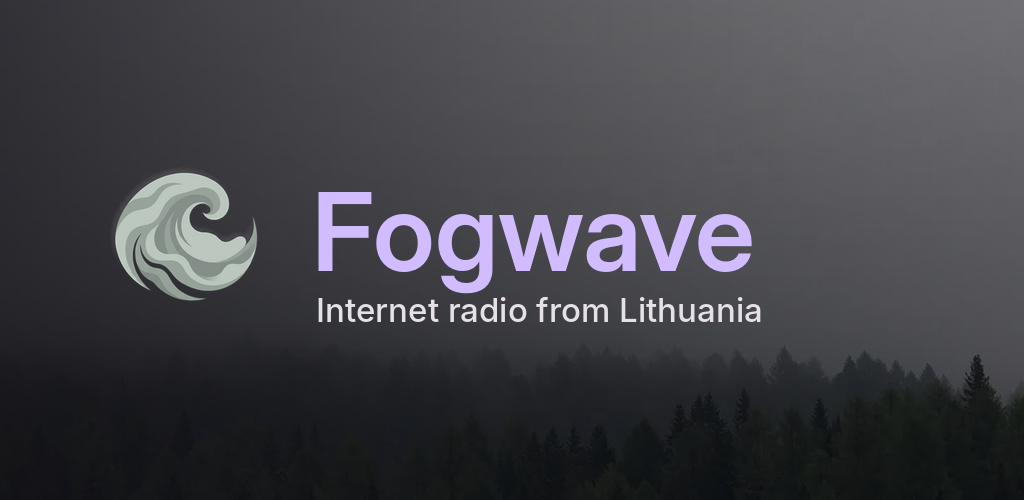
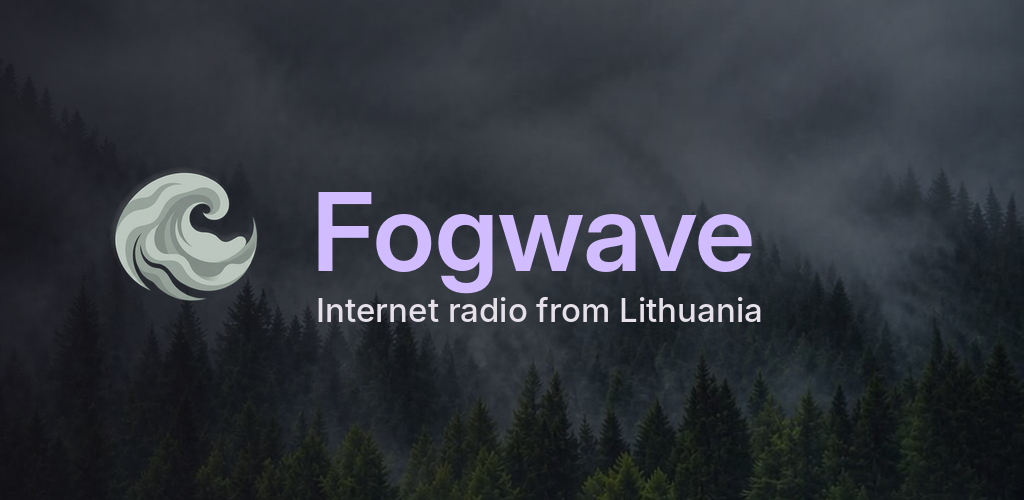
Replace background photo and reorder About links
New misty-mountain background and F-Droid feature graphic. The photo
credit is dropped from the Licenses screen (all six locales) and from
the NonFreeAssets note in the F-Droid recipe. Licenses now sits below
Privacy in About.

Claude-Session: https://claude.ai/code/session_015g6ECVSKcBG8CJPrqC3G5o

diff --git a/app/src/main/java/cc/skysparkle/fogwave/ui/components/AboutPanel.kt b/app/src/main/java/cc/skysparkle/fogwave/ui/components/AboutPanel.kt
@@ -118,21 +118,21 @@ fun AboutPanel(modifier: Modifier = Modifier) {
         )
 
         AboutLinkCard(
-            iconRes = R.drawable.ic_copyright,
-            title = stringResource(R.string.licenses_title),
-            subtitle = stringResource(R.string.licenses_subtitle),
-            trailingIconRes = R.drawable.ic_chevron_right,
-            onClick = { showLicenses = true },
-            modifier = Modifier.testTag("licenses_card")
-        )
-
-        AboutLinkCard(
             iconRes = R.drawable.ic_privacy,
             title = stringResource(R.string.privacy_title),
             subtitle = stringResource(R.string.privacy_subtitle),
             trailingIconRes = R.drawable.ic_open_in_new,
             onClick = { context.openUrl(PRIVACY_POLICY_URL) },
             modifier = Modifier.testTag("privacy_card")
+        )
+
+        AboutLinkCard(
+            iconRes = R.drawable.ic_copyright,
+            title = stringResource(R.string.licenses_title),
+            subtitle = stringResource(R.string.licenses_subtitle),
+            trailingIconRes = R.drawable.ic_chevron_right,
+            onClick = { showLicenses = true },
+            modifier = Modifier.testTag("licenses_card")
         )
     }
 

diff --git a/app/src/main/java/cc/skysparkle/fogwave/ui/components/LicensesDialog.kt b/app/src/main/java/cc/skysparkle/fogwave/ui/components/LicensesDialog.kt
@@ -56,8 +56,7 @@ private val LIBRARIES = listOf(
 )
 
 private val ASSETS = listOf(
-    LicenseRow("MingCute Icon (interface icons)", "MingCute Design, via IconBuddy", APACHE, "https://iconbuddy.com/mingcute"),
-    LicenseRow("Misty mountain background photo", "Federico Bottos, on Unsplash", "Unsplash License", "https://unsplash.com/es/fotos/arboles-verdes-en-la-montana-bajo-nubes-blancas-durante-el-dia-obQacWYxB1I")
+    LicenseRow("MingCute Icon (interface icons)", "MingCute Design, via IconBuddy", APACHE, "https://iconbuddy.com/mingcute")
 )
 
 private val STATIONS = listOf(
